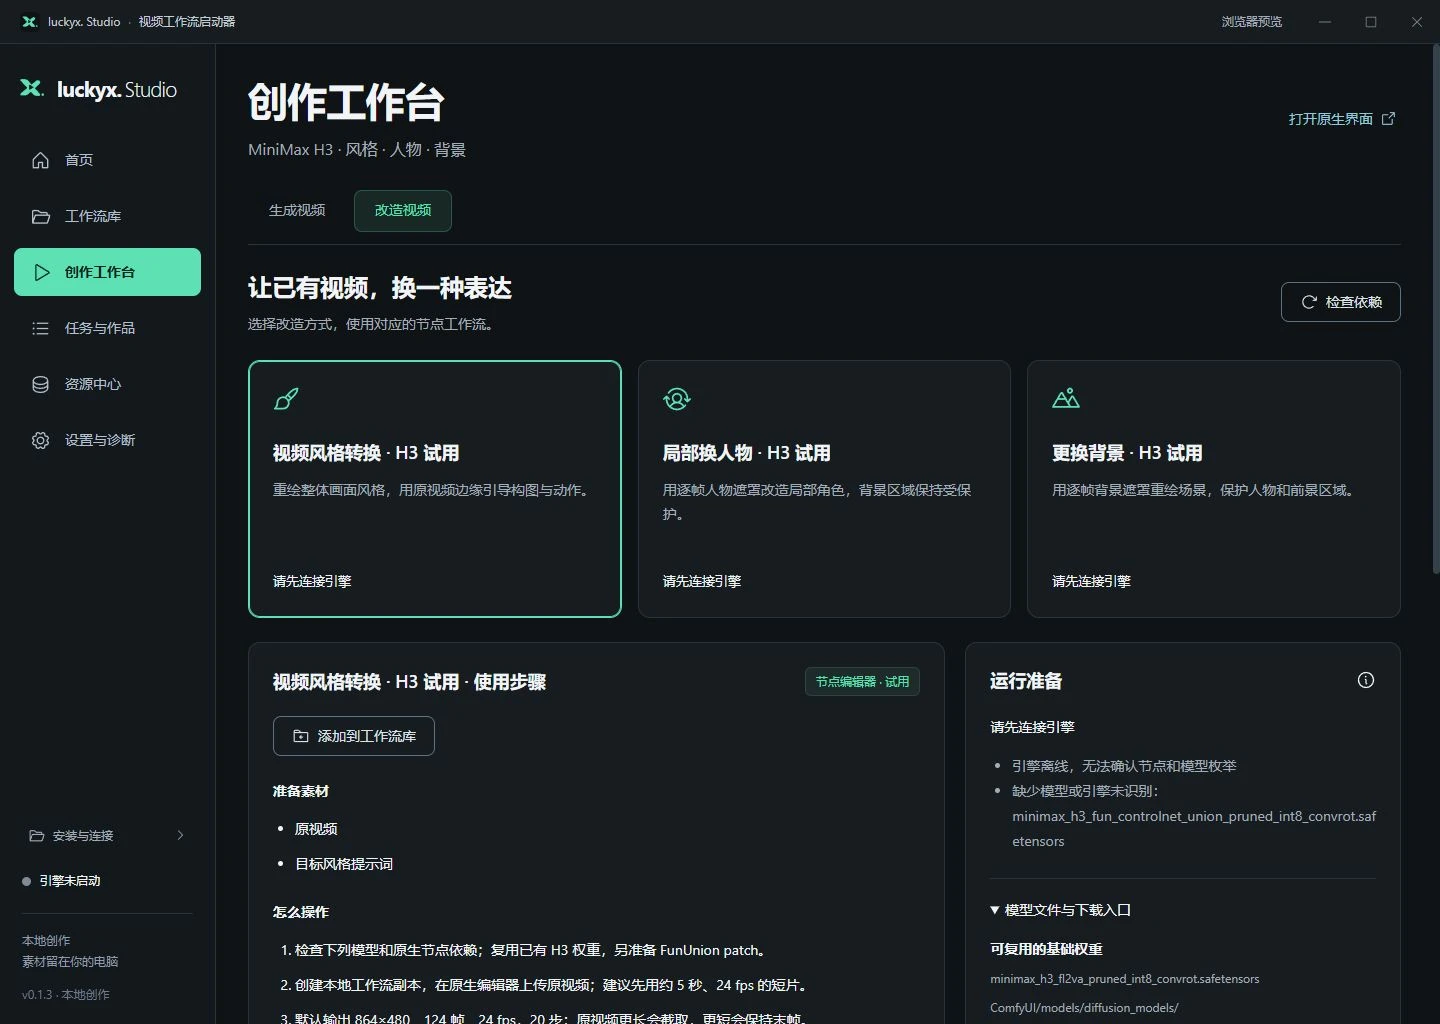
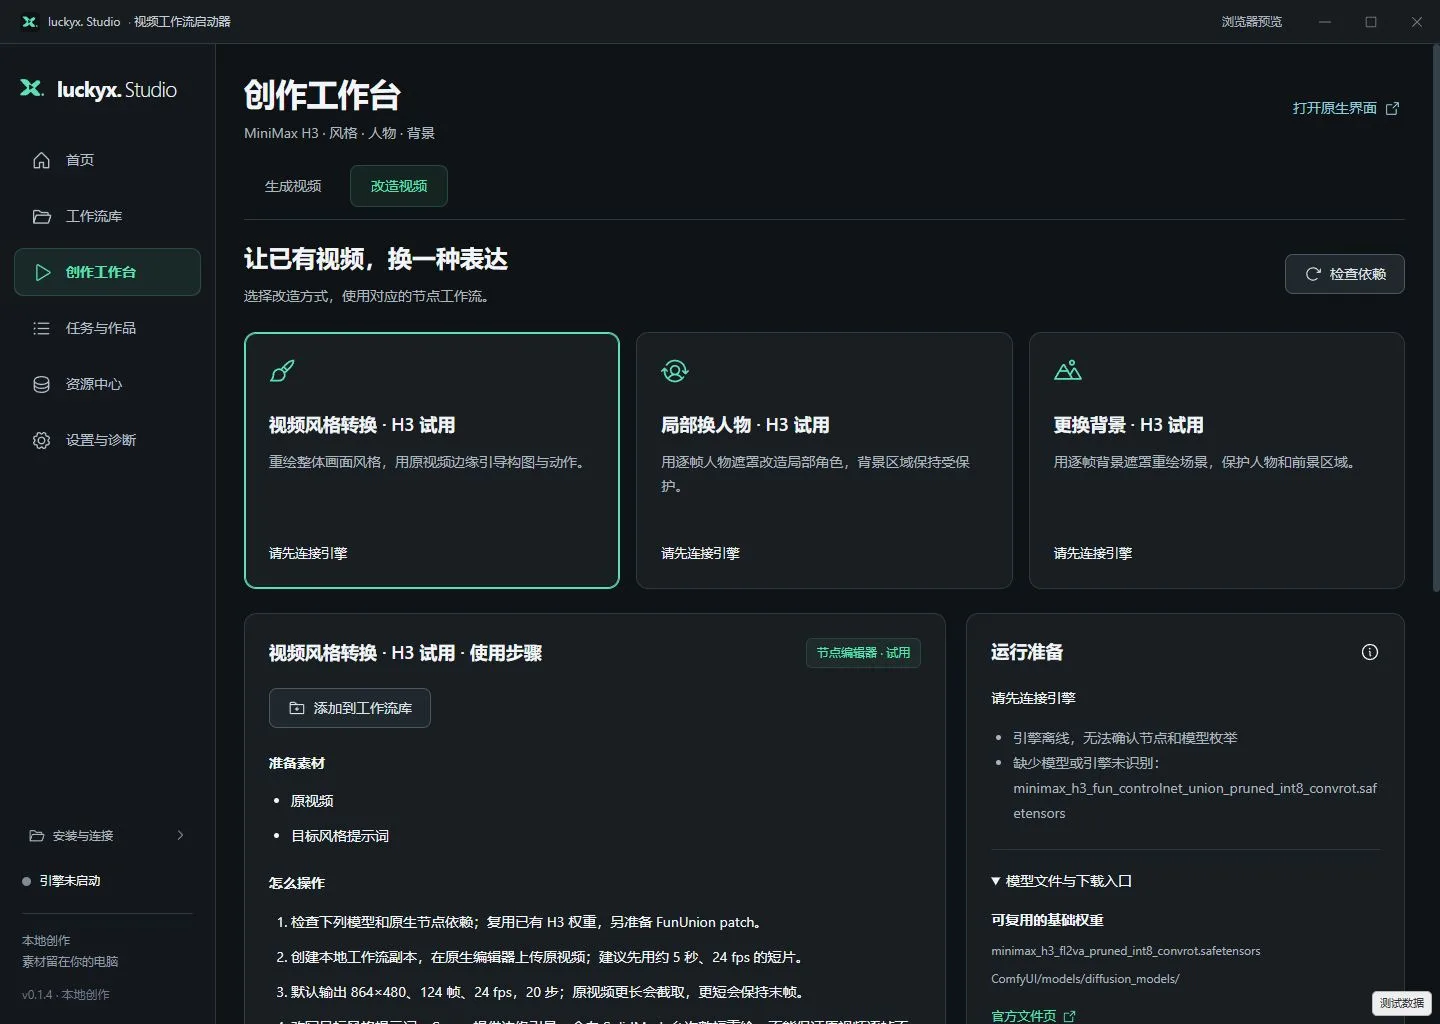
docs: refresh v0.1.4 interface guide and screenshots

diff --git a/README.md b/README.md
@@ -2,7 +2,7 @@
 
 <p align="center"><strong>Windows 本地视频工作流启动器</strong><br />安装环境、管理工作流、生成视频，让创作少一点配置。</p>
 
-<p align="center">v0.1.3 · Windows x64 · Electron + Vue · 本地存储</p>
+<p align="center">v0.1.4 · Windows x64 · Electron + Vue · 本地存储</p>
 
 <p align="center"><a href="#快速开始">快速开始</a> · <a href="#使用教程">使用教程</a> · <a href="#常见问题">常见问题</a> · <a href="#从源码运行">开发与构建</a></p>
 
@@ -10,7 +10,7 @@
 
 ![luckyx. Studio 首页](assets/readme/home.webp)
 
-截图来自 v0.1.3 本地浏览器预览，与桌面版共用界面。预览中禁用实际安装和原生窗口操作；请使用桌面版完成这些步骤。设备、路径与作品为演示环境，不代表所有电脑的生成性能。
+截图来自 v0.1.4 本地浏览器预览，与桌面版共用界面。预览中禁用实际安装和原生窗口操作；请使用桌面版完成这些步骤。设备、路径与作品为演示环境，不代表所有电脑的生成性能。
 
 ## 能做什么
 
@@ -31,10 +31,10 @@
 
 ### 1. 安装启动器
 
-当前交付为本地安装包，尚未发布线上下载链接。在 `dist/v0.1.3/` 中打开：
+当前交付为本地安装包，尚未发布线上下载链接。在 `dist/v0.1.4/` 中打开：
 
 ```text
-luckyx-Studio-Setup-0.1.3-x64.exe
+luckyx-Studio-Setup-0.1.4-x64.exe
 ```
 
 按向导选择安装目录。升级时先退出旧版，再覆盖安装，无需先卸载。安装包目前未签名。
@@ -54,7 +54,7 @@ luckyx-Studio-Setup-0.1.3-x64.exe
 
 确认清单后勾选下载提示，点击 **一键安装并配置**。程序会下载、校验、解压、配置路径并尝试启动与检查引擎。过程中可暂停，重新检查后继续下载。安装目标为所选目录下的 `luckyx-environment`，已有目录不会被覆盖。
 
-![H3 完整安装方案与下载量](assets/readme/setup.webp)
+![安装方案选择与已有环境连接](assets/readme/setup.webp)
 
 只安装基础环境不会下载 H3 权重，也不会直接获得 H3 生成能力。自动安装失败时展开 **手动教程**，处理对应错误后继续，或连接手动安装的环境。
 
@@ -110,6 +110,12 @@ luckyx-Studio-Setup-0.1.3-x64.exe
 ![三种视频改造工作流](assets/readme/transform.webp)
 
 这些流程还需额外的 FunUnion 控制权重，完整 H3 一键安装方案不包含它。目前不会自动生成遮罩，也不提供精确人物身份锁定；改造效果与显存需求仍需试跑确认。
+
+### 调整界面反馈
+
+进入 **设置与诊断 → 界面偏好**，可选择减少动态效果、实色背景和增强对比度。默认跟随系统；键盘操作即时响应。个人工作流每页显示 12 个，较多内容可搜索或翻页。
+
+![界面偏好与路径设置](assets/readme/preferences.webp)
 
 ### 寻找模型和安装教程
 
@@ -210,3 +216,4 @@ tests/          自动化回归测试
 - 引擎与教程：[ComfyUI](https://github.com/Comfy-Org/ComfyUI)、[Windows Portable 指南](https://docs.comfy.org/installation/comfyui_portable_windows)、[MiniMax H3 原生工作流](https://docs.comfy.org/tutorials/video/minimax/minimax-h3-native)。
 - README 信息组织参考：[DeskBox](https://github.com/Tianyu199509/DeskBox)。
 - ComfyUI、模型及第三方组件按各自许可证与使用条件分发；安装包附解压器许可说明。
+
